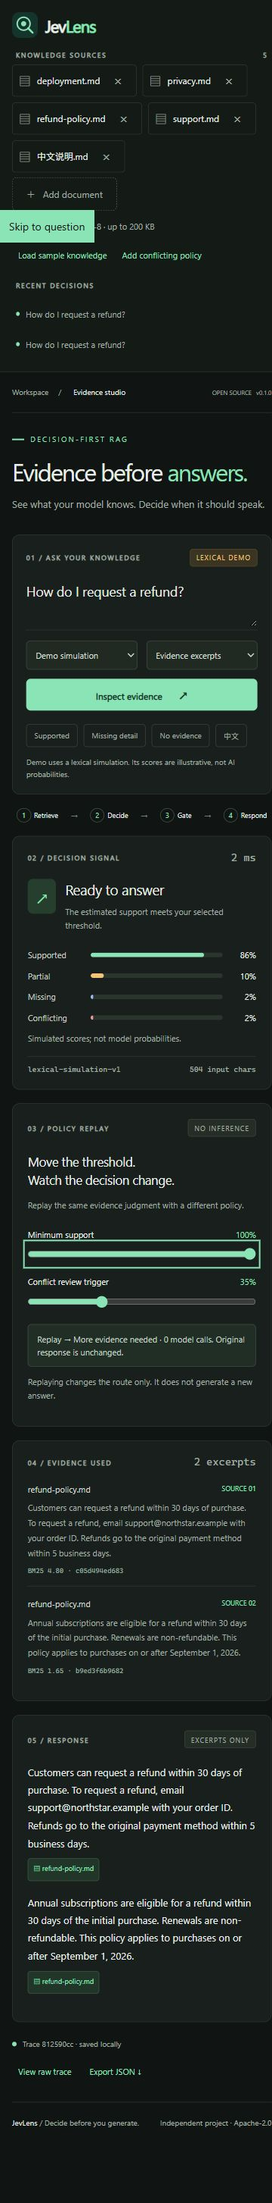
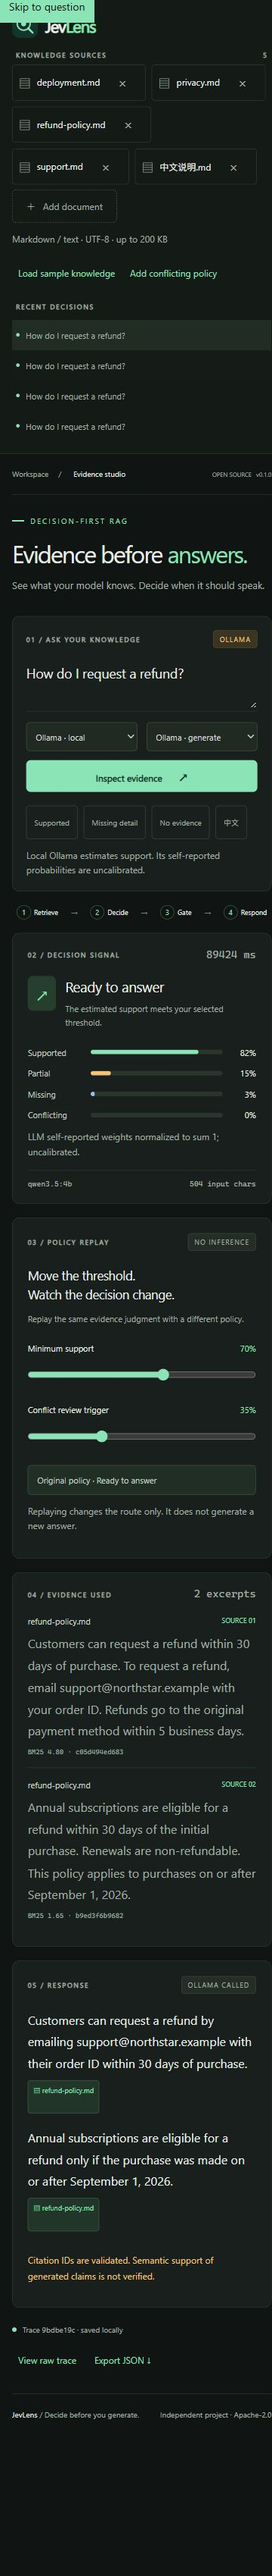
fix: retain accessible labels and readable mobile evidence

diff --git a/src/jevlens/static/style.css b/src/jevlens/static/style.css
@@ -828,7 +828,12 @@ input[type="range"] {
     max-width: 145px;
   }
   .select-group label {
-    display: none;
+    position: absolute;
+    width: 1px;
+    height: 1px;
+    overflow: hidden;
+    clip-path: inset(50%);
+    white-space: nowrap;
   }
   .studio-grid > .panel {
     padding: 20px;
@@ -916,6 +921,27 @@ input[type="range"] {
   }
 }
 @media (max-width: 600px) {
+  .evidence-card p,
+  .answer-claim,
+  .answer-state {
+    font-size: 16px;
+  }
+  .hint,
+  .mode-note,
+  .warnings,
+  .text-button {
+    font-size: 12px;
+  }
+  .scenario,
+  .text-button,
+  .delete-doc,
+  .citation,
+  input[type="range"] {
+    min-height: 44px;
+  }
+  .delete-doc {
+    min-width: 44px;
+  }
   main {
     padding: 0 16px;
   }
